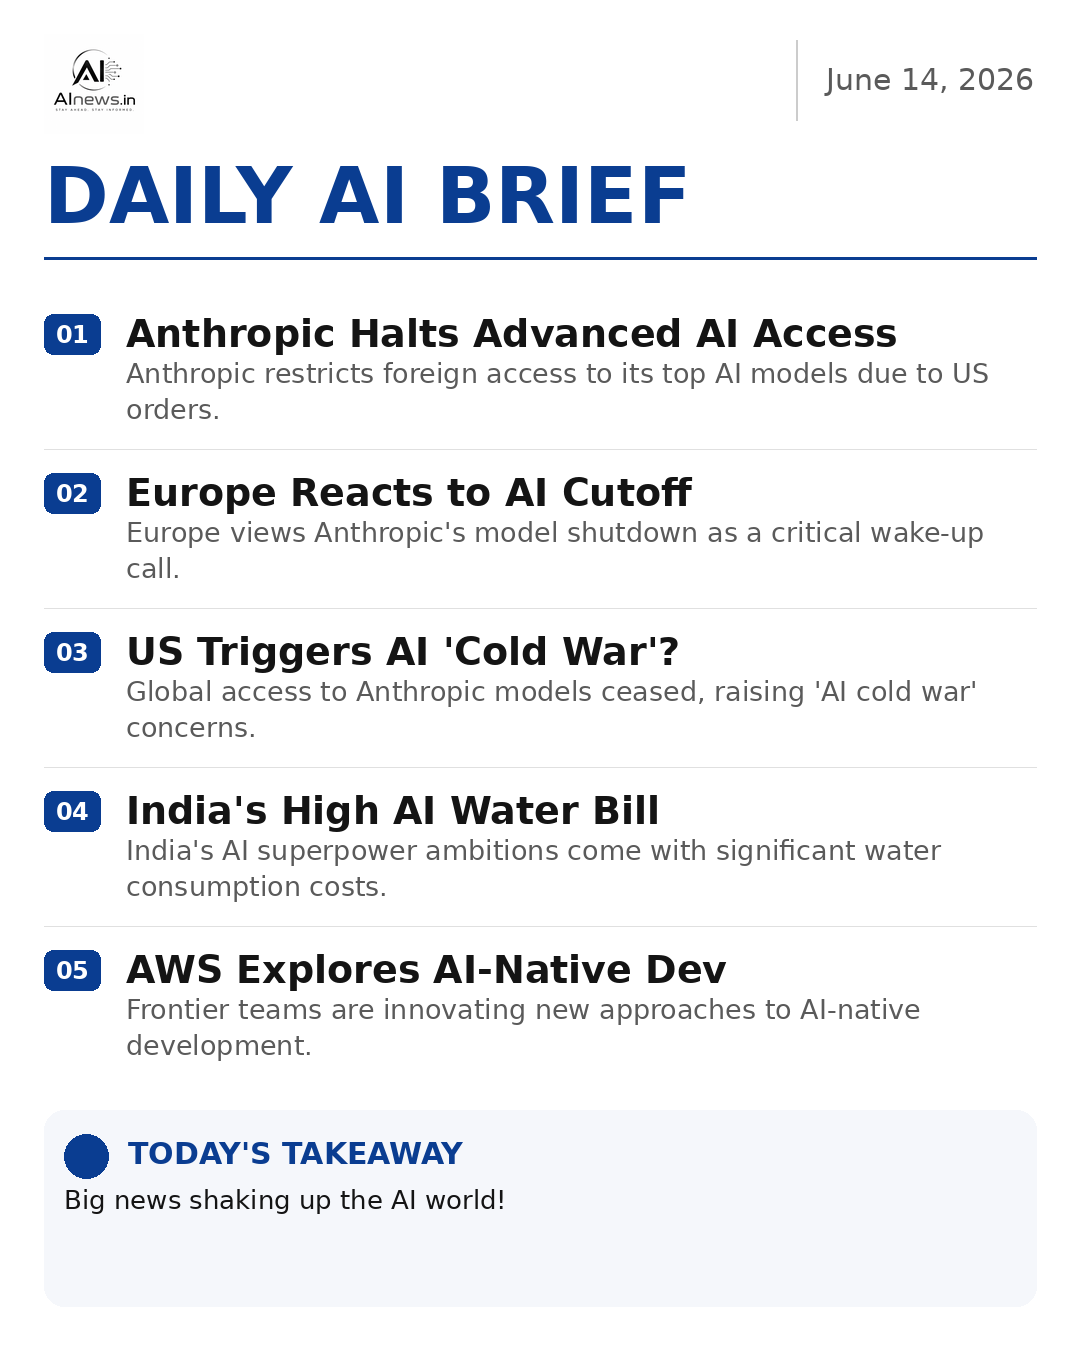
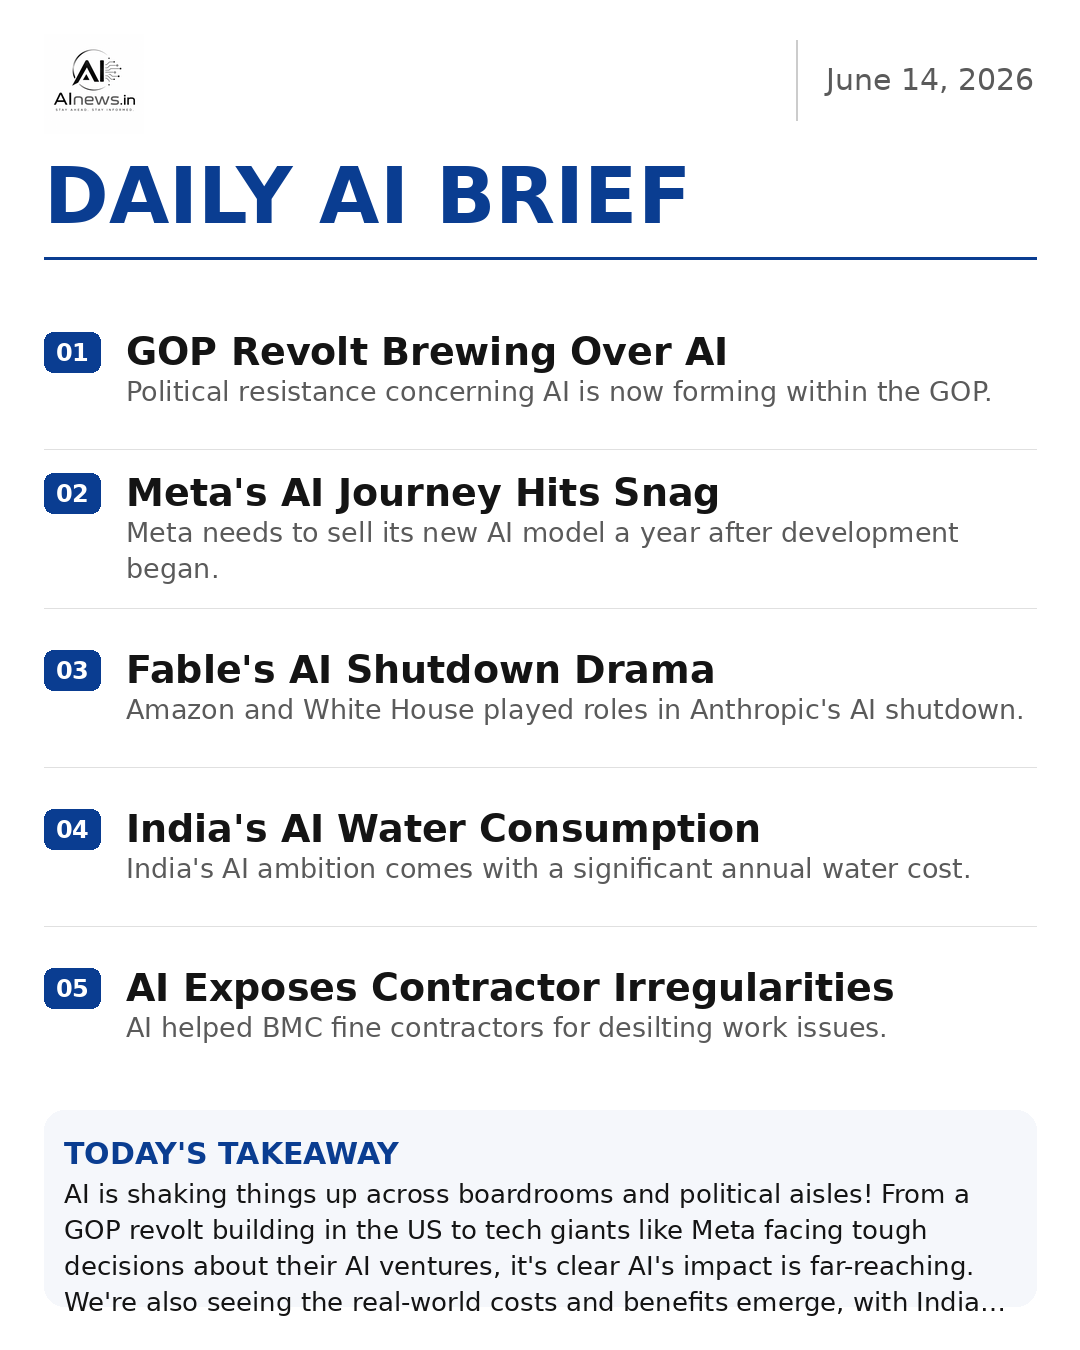
Changes

diff --git a/image_generator.py b/image_generator.py
@@ -1,6 +1,7 @@
 from PIL import Image, ImageDraw, ImageFont
 from datetime import date
 import os
+import re
 
 
 def _load_system_font(size, bold=False):
@@ -162,12 +163,11 @@ def generate_news_image(headlines, post):
     draw.rounded_rectangle(
         (MARGIN, tk_top, WIDTH - MARGIN, HEIGHT - MARGIN), radius=20, fill=LBLUE,
     )
-    draw.ellipse((MARGIN + 20, tk_top + 24, MARGIN + 64, tk_top + 68), fill=BLUE)
-    draw.text((MARGIN + 84, tk_top + 26), "TODAY'S TAKEAWAY", font=f_tk_title, fill=BLUE)
+    draw.text((MARGIN + 20, tk_top + 26), "TODAY'S TAKEAWAY", font=f_tk_title, fill=BLUE)
 
-    summary = " ".join(str(post).split("\n")[:2]).strip()
-    sy = tk_top + 74
-    for line in _wrap_clamp(draw, summary, f_tk, WIDTH - 2 * MARGIN - 40, 2):
+    summary = re.sub(r'[^\x00-\x7F]+', ' ', " ".join(str(post).split("\n")[:4])).strip()
+    sy = tk_top + 68
+    for line in _wrap_clamp(draw, summary, f_tk, WIDTH - 2 * MARGIN - 40, 4):
         draw.text((MARGIN + 20, sy), line, font=f_tk, fill=BLACK)
         sy += 36
 